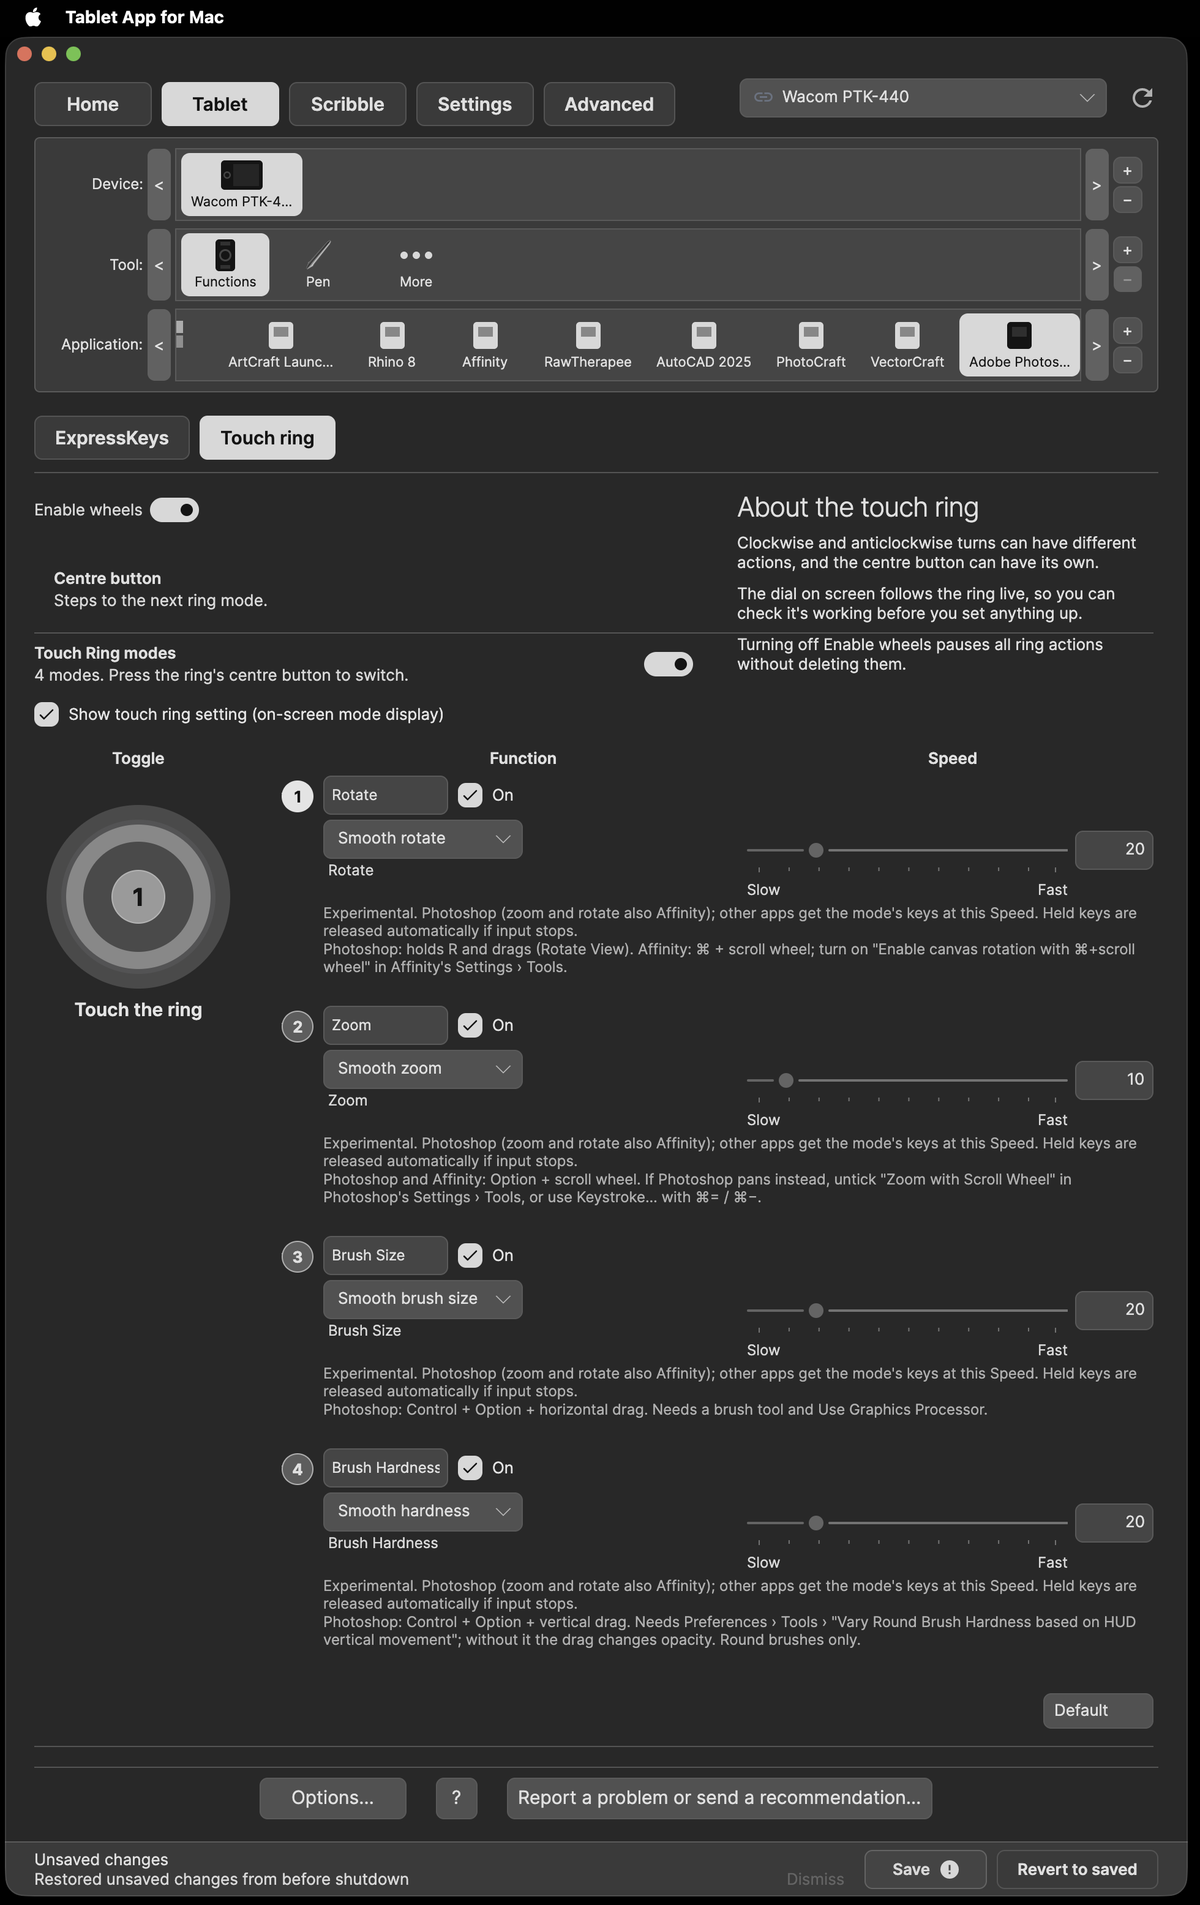
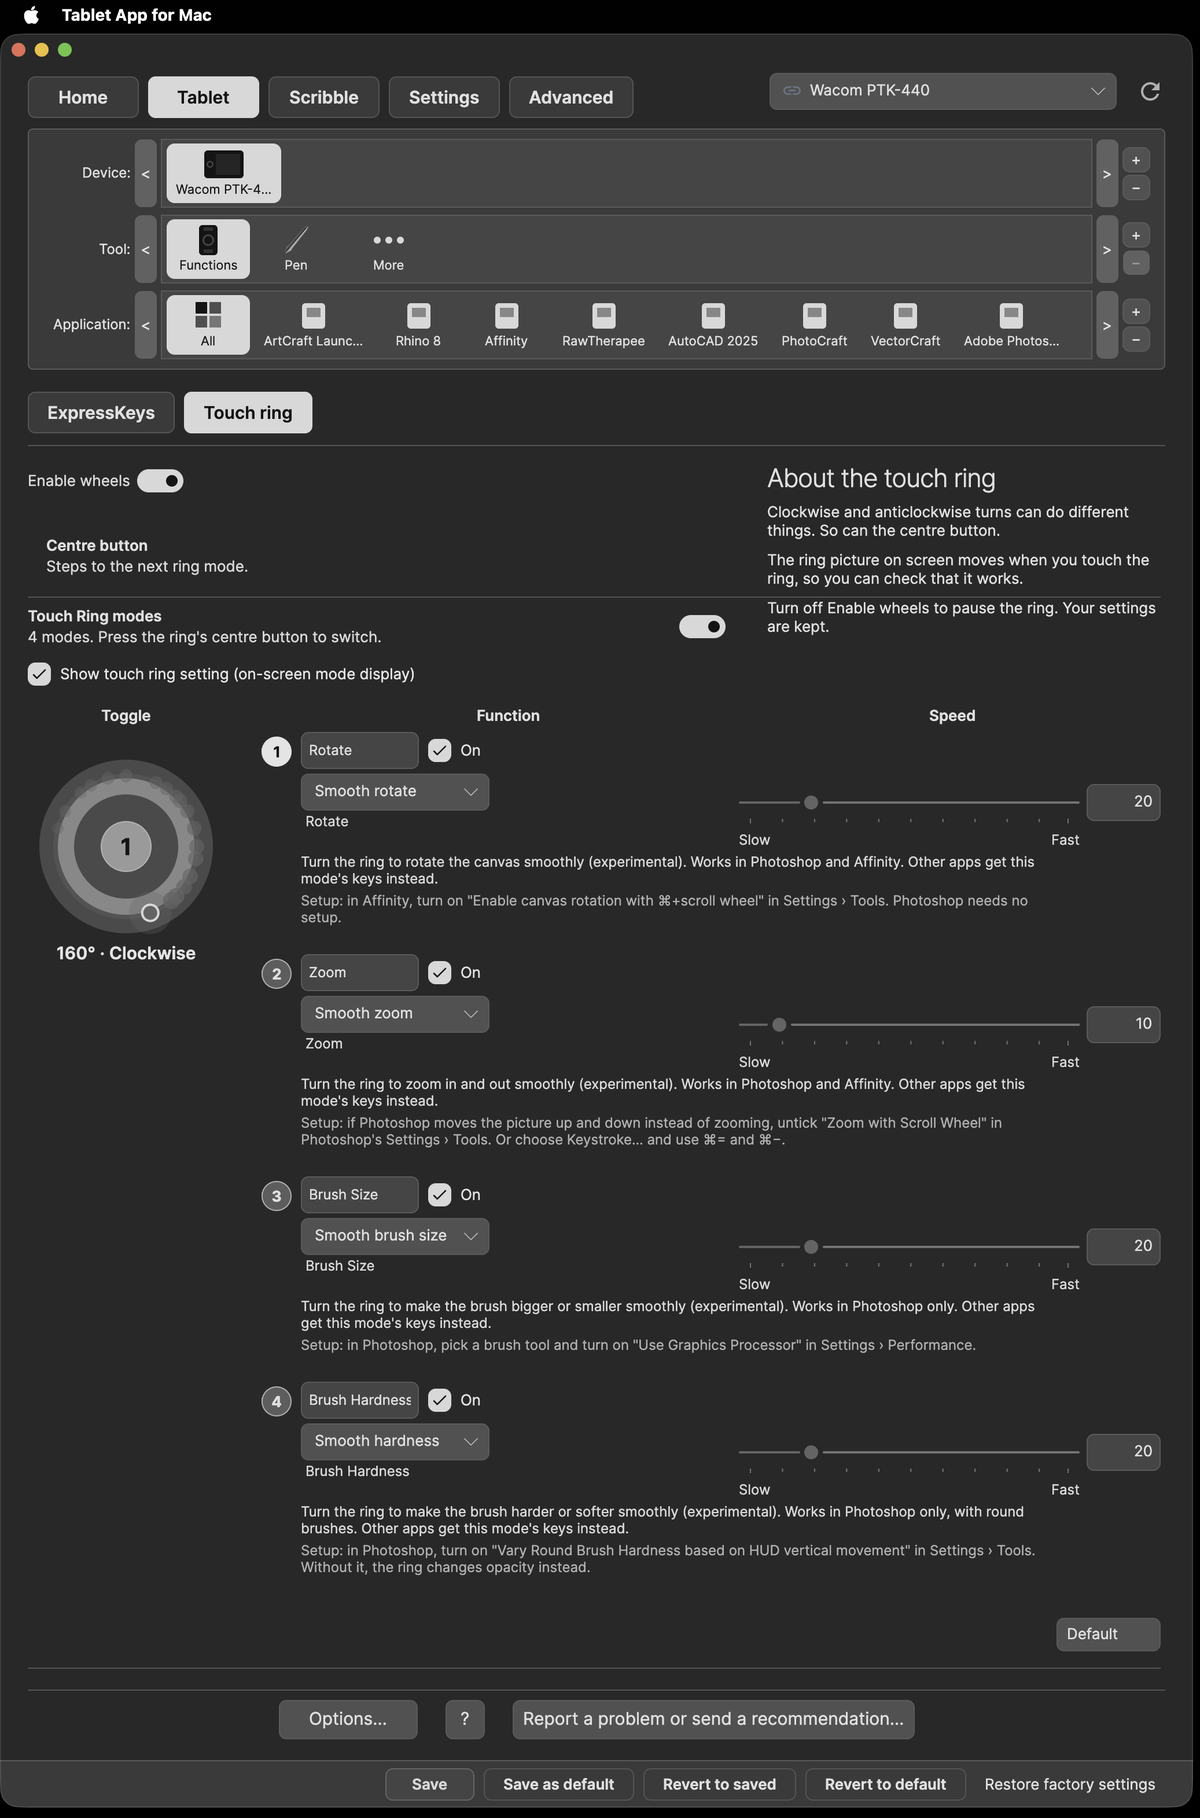
Site: Version 26 screenshots (touch ring, ExpressKeys, pen) - v16-source edb39ad; Zak said put them live, 10 Nov 2026
Claude-Session: https://claude.ai/code/session_01KKNef4RukafQL5Uot2CQ1W

diff --git a/index.html b/index.html
@@ -23,7 +23,7 @@
 <figure class="slot" data-slot="02-home-overview"><picture><source type="image/webp" srcset="/tablet-app-for-mac/assets/shots/02-home-overview.webp"><img src="/tablet-app-for-mac/assets/shots/02-home-overview.png" alt="Home page of Tablet App for Mac, Version 24, with the connected tablet, You have the latest version, Check for updates now and Earlier versions" width="1200" height="773" loading="eager" decoding="async"></picture><figcaption>Home: your tablets and updates. Earlier versions… takes you back to an older version.</figcaption></figure><ul class="facts"><li>Free and open source (GPL-3.0)</li><li>No tracking or telemetry</li><li>For Apple silicon Macs</li><li>Tested on macOS 27.0.1 with an Intuos4 Small (PTK-440)</li><li><a href="/tablet-app-for-mac/tablets/">All supported Wacom tablets</a></li></ul>
 <p class="muted">Tested only on that system and tablet. Use at your own risk.</p>
 <h2>What is new in Version 25</h2><ul><li><strong>Two pen taps now double-click.</strong> Tap the pen tip twice on the same spot and the app sends a double-click, as with a mouse. Moving the pen in the air between the two taps no longer stops it. A small wobble while the tip is down no longer drags a folder. <strong>Double Click Fix</strong> on the Pen page sets how far the pen tip may wobble during a click before it counts as a drag (Off = 0, Default 50 = 1 mm, 100 = 2 mm). Choose Off in drawing apps that need every movement.</li><li><strong>Pen buttons and ExpressKeys can be set to Double Click.</strong> Click <strong>Change…</strong> on a pen button or an ExpressKey, then choose <strong>Double Click</strong> under <strong>Mouse</strong>: one press sends a left-button double-click at the cursor.</li><li><strong>Pen taps activate the app you tap.</strong> On macOS 27 a pen tap in another app’s window brought the window forward but left the previous app active, and a tap on the desktop didn’t switch to Finder. The app of the window you tap is now made active first, including Finder when you tap the desktop.</li><li><strong>Dock at the screen edge:</strong> moving the pen to the bottom (or side) edge of the screen should now show the Dock more reliably, and hot corners should trigger more reliably too. The pointer stays a fraction of a pixel inside the screen, as macOS expects.</li><li><strong>Report a problem:</strong> the report sheet has an optional <strong>Your email</strong> box near the top (“Leave your email so we can help you better in fixing your issue”). It goes into the file only with <strong>Send with file</strong>, never into a GitHub issue. You can leave it empty.</li><li><strong>All displays:</strong> if you chose All displays, the mapped area now follows your current desktop and is saved. Home no longer warns that the mapped area is partly off-screen when it is only waiting to re-fit.</li><li><strong>Scribble:</strong> the eraser end of the pen now erases strokes.</li></ul><h3>Version 24</h3><ul><li><strong>Send with file:</strong> after you choose where to save the report, the app offers <strong>Open upload page</strong> (Digital Groceries' Dropbox page). That page asks for your name and email itself — the app no longer asks for an email, and it no longer shows a Show in Finder button. <strong>Send with GitHub account</strong> is unchanged.</li><li><strong>Mouse-like:</strong> the tablet rotation you set under Mapping is also used in Mouse-like mode.</li><li><strong>Finger touch:</strong> a held click is released when the driver stops the touch filter (for example when the tablet is unplugged).</li><li><strong>Home:</strong> the go-back button now says <strong>Previous Version</strong>. The full “Go back to Version N” is still the tooltip.</li></ul>
-<figure class="slot" data-slot="34-ring-turn"><picture><source type="image/webp" srcset="/tablet-app-for-mac/assets/shots/34-ring-turn.webp"><img src="/tablet-app-for-mac/assets/shots/34-ring-turn.png" alt="Touch ring page with the finger on the ring" width="1200" height="1905" loading="eager" decoding="async"></picture><figcaption>Touch ring: the active mode is lit, its number is on the centre button, and the angle and direction show under the ring.</figcaption></figure>
+<figure class="slot" data-slot="34-ring-turn"><picture><source type="image/webp" srcset="/tablet-app-for-mac/assets/shots/34-ring-turn.webp"><img src="/tablet-app-for-mac/assets/shots/34-ring-turn.png" alt="Touch ring page with the finger on the ring" width="1200" height="1818" loading="eager" decoding="async"></picture><figcaption>Touch ring: the active mode is lit, its number is on the centre button, and the angle and direction show under the ring.</figcaption></figure>
 <figure class="slot" data-slot="05-pen-applications"><picture><source type="image/webp" srcset="/tablet-app-for-mac/assets/shots/05-pen-applications.webp"><img src="/tablet-app-for-mac/assets/shots/05-pen-applications.png" alt="Tablet › Pen page, with several apps in the Application row" width="1120" height="1216" loading="eager" decoding="async"></picture><figcaption>Tablet › Pen, with per-app settings: add apps to the Application row with +. Each app keeps its own settings; All other covers the rest.</figcaption></figure>
 <figure class="slot" data-slot="63-scribble-draw"><picture><source type="image/webp" srcset="/tablet-app-for-mac/assets/shots/63-scribble-draw.webp"><img src="/tablet-app-for-mac/assets/shots/63-scribble-draw.png" alt="Scribble canvas with pen strokes" width="1200" height="776" loading="eager" decoding="async"></picture><figcaption>Scribble: draw to check pressure, with a precise crosshair cursor.</figcaption></figure>
 <h2 id="feedback">Feedback</h2><p>Found a problem, or have an idea? Tell us, and add screenshots if you can: they help a lot.</p><div class="dlrow"><a class="btn" href="https://github.com/DigitalGroceries/tablet-app-for-mac/issues/new/choose">Report on GitHub</a><a class="btn" href="https://www.dropbox.com/request/9k5b0u782t79plarauv9">Feedback without a GitHub account</a></div><p>The upload page asks for your name and email (Dropbox's rule) — only the Tablet App for Mac team sees them, and no Dropbox account is needed.</p><h2>Support</h2><div class="tip"><picture><source type="image/webp" srcset="/tablet-app-for-mac/assets/support/coffee-plain-16x9-480.webp 480w, /tablet-app-for-mac/assets/support/coffee-plain-16x9-800.webp 800w, /tablet-app-for-mac/assets/support/coffee-plain-16x9-1200.webp 1200w" sizes="(min-width:700px) 340px, 100vw"><img class="coffee small" src="/tablet-app-for-mac/assets/support/coffee-plain-16x9-800.jpg" srcset="/tablet-app-for-mac/assets/support/coffee-plain-16x9-480.jpg 480w, /tablet-app-for-mac/assets/support/coffee-plain-16x9-800.jpg 800w, /tablet-app-for-mac/assets/support/coffee-plain-16x9-1200.jpg 1200w" sizes="(min-width:700px) 340px, 100vw" alt="A guitar and a cup of coffee" width="1280" height="720" loading="eager" decoding="async"></picture><div><p>If you'd like to support future updates, you can <a href="https://digitalgroceries.github.io/tablet-app-for-mac/support/">buy me a coffee</a> with PayPal, Ko-fi, Bitcoin or Monero.</p></div></div><h2>Requirements</h2><ul><li>A Mac with Apple silicon.</li><li>macOS 15 or later.</li><li>The tablet driver, built on OpenTabletDriver (included).</li><li>Input Monitoring and Accessibility permissions (Accessibility is called Device Control and Data Access on macOS 27).</li><li>Uninstall the Wacom driver first, as both can&#39;t run at once.</li></ul>

diff --git a/help/index.html b/help/index.html
@@ -64,7 +64,7 @@
 <li><strong>Refresh</strong> reloads the tablet's settings from the driver.</li>
 <li>Footer: <strong>Options…</strong> (Settings), <strong>?</strong> (this manual), <strong>Report a problem or send a recommendation…</strong> (see Report a problem or send a recommendation).</li>
 </ul><p class="backtop"><a href="#chapters">↑ Back to chapters</a></p></section>
-<section class="chap" id="tablet-pen" aria-labelledby="tablet-pen-h"><h2 id="tablet-pen-h">Tablet › Pen</h2><figure><picture><source type="image/webp" srcset="/tablet-app-for-mac/assets/manual/05-pen-tool-row.webp"><source type="image/png" srcset="/tablet-app-for-mac/assets/manual/05-pen-tool-row.png"><img src="/tablet-app-for-mac/assets/manual/05-pen-tool-row.webp" alt="Pen" width="960" height="1125" loading="lazy" decoding="async"></picture><figcaption>Pen</figcaption></figure>
+<section class="chap" id="tablet-pen" aria-labelledby="tablet-pen-h"><h2 id="tablet-pen-h">Tablet › Pen</h2><figure><picture><source type="image/webp" srcset="/tablet-app-for-mac/assets/manual/05-pen-tool-row.webp"><source type="image/png" srcset="/tablet-app-for-mac/assets/manual/05-pen-tool-row.png"><img src="/tablet-app-for-mac/assets/manual/05-pen-tool-row.webp" alt="Pen" width="960" height="1244" loading="lazy" decoding="async"></picture><figcaption>Pen</figcaption></figure>
 <table><tr><th>Control</th><th>Default</th><th>Function</th></tr>
 <tr><td>Tilt › Turn tilt off</td><td>Off</td><td>Stops sending tilt. Shared with the eraser.</td></tr>
 <tr><td>Tip Feel</td><td>Middle (linear)</td><td>Soft to Firm pressure curve.</td></tr>
@@ -90,7 +90,7 @@
 <tr><td>Force proportions</td><td>On</td><td>Keeps the area at the display's aspect ratio.</td></tr>
 <tr><td>Display Settings</td><td>–</td><td>Opens macOS Displays settings.</td></tr>
 </table><p class="backtop"><a href="#chapters">↑ Back to chapters</a></p></section>
-<section class="chap" id="tablet-functions-expresskeys" aria-labelledby="tablet-functions-expresskeys-h"><h2 id="tablet-functions-expresskeys-h">Tablet › Functions › ExpressKeys</h2><figure><picture><source type="image/webp" srcset="/tablet-app-for-mac/assets/manual/25-functions-tool.webp"><source type="image/png" srcset="/tablet-app-for-mac/assets/manual/25-functions-tool.png"><img src="/tablet-app-for-mac/assets/manual/25-functions-tool.webp" alt="ExpressKeys" width="960" height="1208" loading="lazy" decoding="async"></picture><figcaption>ExpressKeys</figcaption></figure>
+<section class="chap" id="tablet-functions-expresskeys" aria-labelledby="tablet-functions-expresskeys-h"><h2 id="tablet-functions-expresskeys-h">Tablet › Functions › ExpressKeys</h2><figure><picture><source type="image/webp" srcset="/tablet-app-for-mac/assets/manual/25-functions-tool.webp"><source type="image/png" srcset="/tablet-app-for-mac/assets/manual/25-functions-tool.png"><img src="/tablet-app-for-mac/assets/manual/25-functions-tool.webp" alt="ExpressKeys" width="960" height="1026" loading="lazy" decoding="async"></picture><figcaption>ExpressKeys</figcaption></figure>
 <ul>
 <li>Press a key on the tablet to light its row.</li>
 <li>Row <strong>⋯</strong>: <strong>Edit…</strong> opens the function editor, <strong>Clear</strong> removes the action.</li>
@@ -105,7 +105,7 @@
 <li>The dial follows the ring live: the dot sits under your finger. The angle and turn direction show under the ring, for example "0° · Clockwise". 12 o'clock is 0° and 3 o'clock is 90°.</li>
 <li>The active mode is highlighted; its number is lit, centred, and also shows on the centre button.</li>
 </ul>
-<figure><picture><source type="image/webp" srcset="/tablet-app-for-mac/assets/manual/34-ring-turn.webp"><source type="image/png" srcset="/tablet-app-for-mac/assets/manual/34-ring-turn.png"><img src="/tablet-app-for-mac/assets/manual/34-ring-turn.webp" alt="Touch ring in use" width="960" height="1524" loading="lazy" decoding="async"></picture><figcaption>Touch ring in use</figcaption></figure>
+<figure><picture><source type="image/webp" srcset="/tablet-app-for-mac/assets/manual/34-ring-turn.webp"><source type="image/png" srcset="/tablet-app-for-mac/assets/manual/34-ring-turn.png"><img src="/tablet-app-for-mac/assets/manual/34-ring-turn.webp" alt="Touch ring in use" width="960" height="1454" loading="lazy" decoding="async"></picture><figcaption>Touch ring in use</figcaption></figure>
 <ul>
 <li>On-screen centre button: moves the highlight to the next mode so you can edit it; it doesn't change the mode the tablet uses. Only the tablet's own centre button switches the mode.</li>
 <li>Per mode: name, <strong>On</strong>, <strong>Function</strong> (Keystroke…, or the experimental smooth actions), <strong>Speed</strong> (Slow to Fast, slider or typed), and the <strong>Clockwise</strong> and <strong>Anticlockwise</strong> keys.</li>
